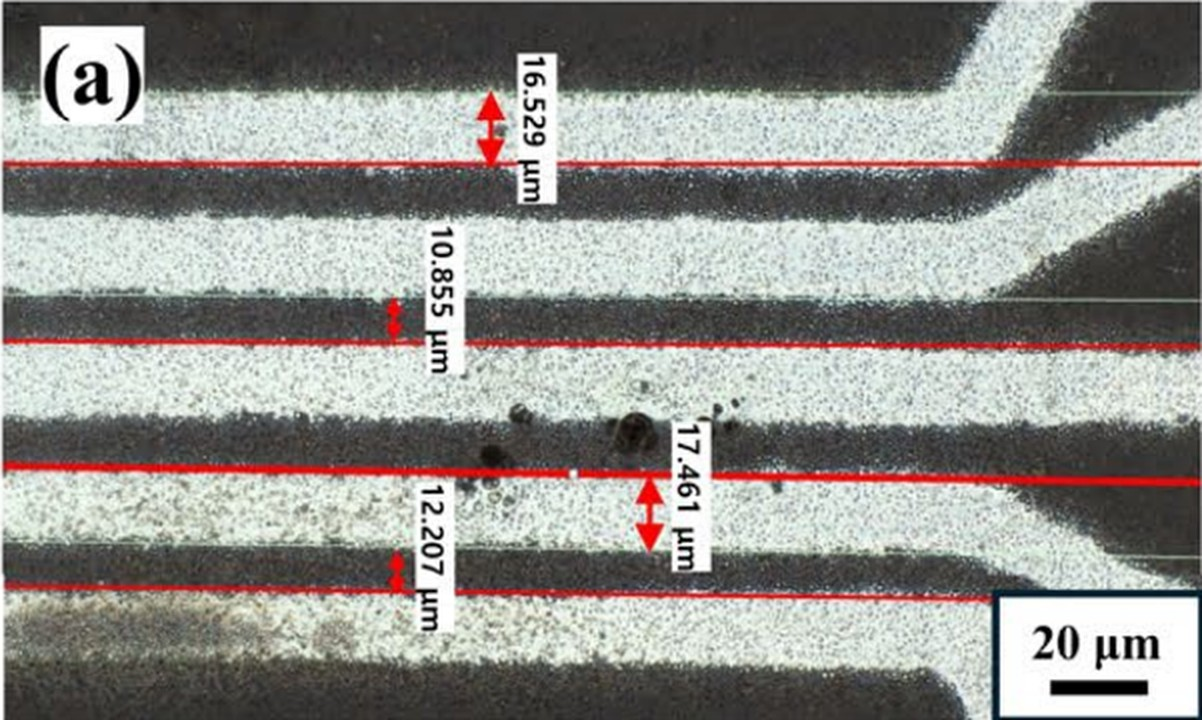
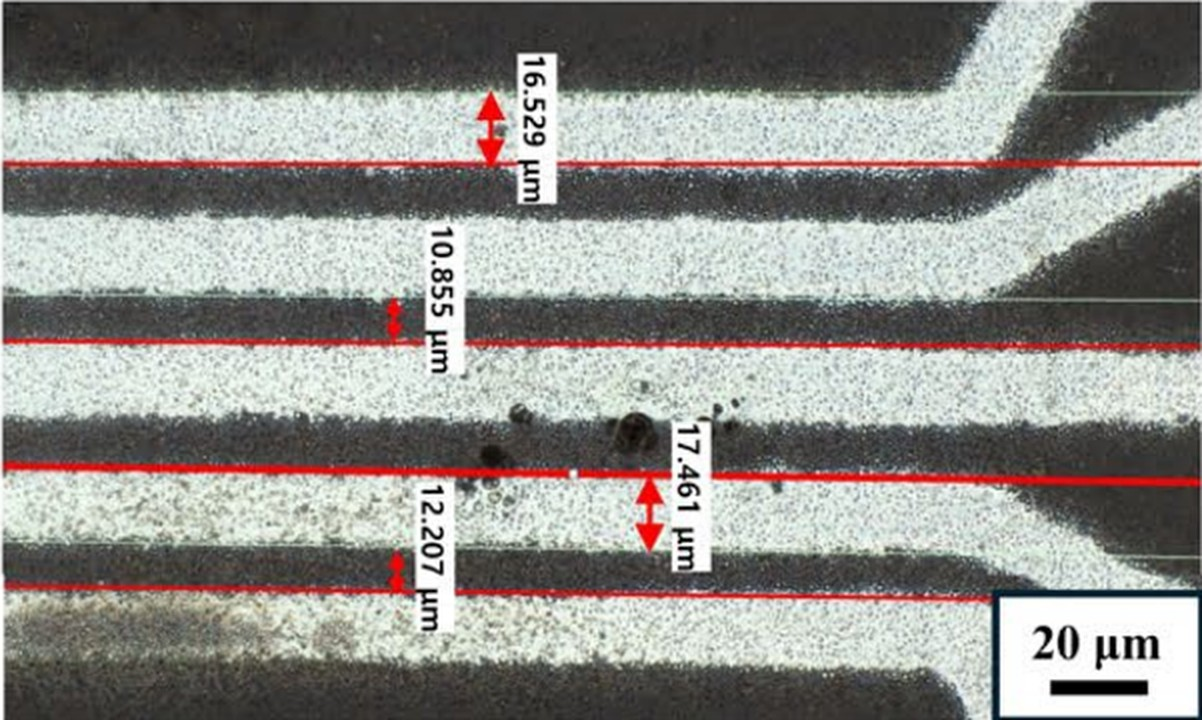
Remove panel letters and Spot legend from DLP images
Claude-Session: https://claude.ai/code/session_01ATWJJ8MvEn9Ay1ZMuxNdpa

Changed region(s): [[0.0, 0.0306, 0.1539, 0.2139]]

diff --git a/index.html b/index.html
@@ -201,10 +201,10 @@
     </article>
     <p class="meta mono gallery-head">Printed results</p>
     <div class="gallery">
-      <figure><img src="img/dlp-lines.jpg" alt="Printed lines and gaps at the 10 µm scale" loading="lazy"><figcaption class="mono"><b>Fine lines</b> Printed lines and gaps at the 10 µm scale</figcaption></figure>
+      <figure><img src="img/dlp-lines.jpg?v=2" alt="Printed lines and gaps at the 10 µm scale" loading="lazy"><figcaption class="mono"><b>Fine lines</b> Printed lines and gaps at the 10 µm scale</figcaption></figure>
       <figure><img src="img/dlp-profile.jpg" alt="Height map of a printed pad and trace" loading="lazy"><figcaption class="mono"><b>3D surface scan</b> Height map of a printed pad and trace</figcaption></figure>
-      <figure><img src="img/dlp-annealed.jpg" alt="Circuit pattern after silver curing and annealing" loading="lazy"><figcaption class="mono"><b>Printed circuit</b> Circuit pattern after silver curing and annealing</figcaption></figure>
-      <figure><img src="img/dlp-longhorn.jpg" alt="Longhorn logo printed at sub-millimeter scale" loading="lazy"><figcaption class="mono"><b>Fine features</b> Longhorn logo printed at sub-millimeter scale</figcaption></figure>
+      <figure><img src="img/dlp-annealed.jpg?v=2" alt="Circuit pattern after silver curing and annealing" loading="lazy"><figcaption class="mono"><b>Printed circuit</b> Circuit pattern after silver curing and annealing</figcaption></figure>
+      <figure><img src="img/dlp-longhorn.jpg?v=2" alt="Longhorn logo printed at sub-millimeter scale" loading="lazy"><figcaption class="mono"><b>Fine features</b> Longhorn logo printed at sub-millimeter scale</figcaption></figure>
     </div>
 
     <article class="project">
